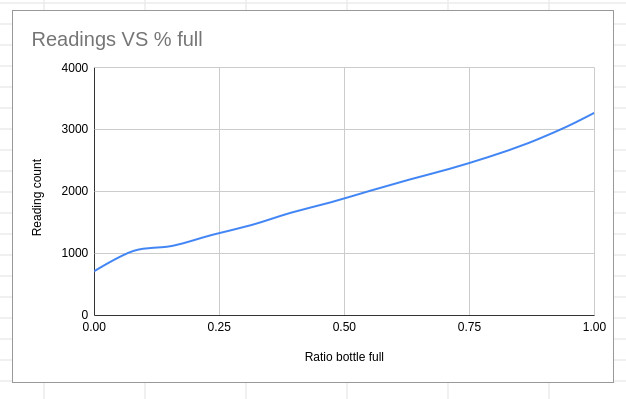
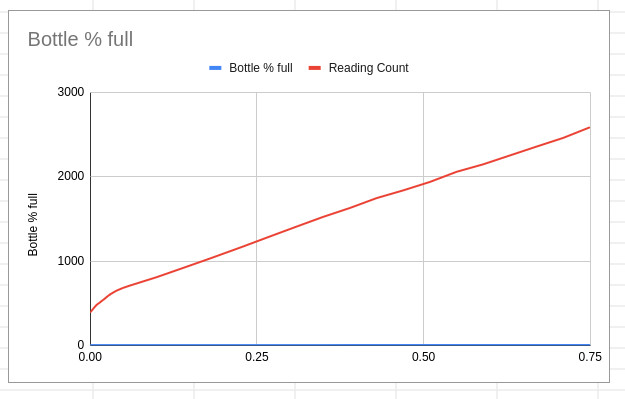
One pin Capactive sensor is now working in Rust

diff --git a/ex-gpio-change-pin-direction-var-cap-read-1-pin/readme.md b/ex-gpio-change-pin-direction-var-cap-read-1-pin/readme.md
@@ -2,15 +2,16 @@
 
 ## ESP32 Embedded Rust: Measuring Capacitance with Discharge Time
 
-This example demonstrates measuring changes in capacitance by recording the time it takes for a variable capacitor to discharge by measuring the time the capacitor takes to 
-drop from VCC (3.3V) to 0.7V through a known resistor. 
+This example demonstrates measuring changes in capacitance by recording the time it takes for a variable capacitor to discharge near VCC (3.3V) to 0.7V through a known resistor.  It does this with only logic level transitions without requiring a ADC
+or analog comparator. 
 
 ### Fluid Level Sensing in Embedded Rust on ESP32 CPU by measuring change in Capacitance
 For testing the electrode will be a two foil strips afixed to 
-the outside of a water bottle.  The Capacitance is varied by filling the bottle with various amounts of water.  One stip oscilates from VCC to 0.7V while the other on the opposite side of bottle is connected to ground.  This forms a capacitor with air as the dielectric when empty and water as the dielectric as water is added.
+the outside of a water bottle.  The Capacitance is varied by filling the bottle with various amounts of water.  One strip oscilates from VCC to 0.7V while the other on the opposite side of bottle is connected to ground.  This forms a capacitor with air as the dielectric when empty and water as the dielectric as water is added. As more
+water is added capacitance of the circuit increases.
 
 ### Human Proximity Sensing. 
-This method can also be used to sense human touch. With a large enough sensor, it can detect changes in human proximity as a person moves closer to or further from the sensor.
+This method can also be used to sense human touch. With a large enough sensor, As shown below it can detect changes in human proximity as a person moves closer to or further from the sensor.   With a larger sensor it could easily detects a human moving closer or away within a 1 meter range.
 
 ### ESP32 Rust Features Demonstrated:
     - Change GPIO Pin Direction
@@ -45,24 +46,19 @@ Many of my designs rely heavily on capacitive sensing. However, not all my prefe
 Tested on esp32-s3-mini-1 on custom RaimAmp.com board on 2024-04-20
 
 ### Results and Notes
-I'm pretty happy with the linearity and response. There are some variations, but these could easily be caused by my imperfect cutting of the foil tape and the use of a measuring cup and syringe to add water.
+The linearity of the response is pretty good even though there are variations from imperfect cutting of the foil tape.
 
 There is a significant jump in readings from an empty bottle to a bottle with some water. This jump needs to be accounted for when using this method to measure tank level.
 
 ![alt text](img/sample-calibration-chart.jpg)
 
-Additionally, the readings accelerate at the end when the bottle tapers. It probably would have been better to stop at 85% full and adjust the total capacity downward.
 
-Even with tanks of variable shapes, interpolation from point to point can be used for accurate estimation.
-
-
-- Aluminum tape used as sensors was cut by hand and has some minor wrinkles, which will cause some variability in readings. 
+- The aluminum tape used as sensors was cut by hand and has some minor wrinkles, which will cause some variability in readings.  I have also used aluminum bar,  stainless rods, aluminum and steel tube.
 
 - There is a large increase from empty to the first water increment. This is great if you want to measure an empty tank, but it makes the first reading appear skewed. 
 
-- After adding water, some inevitably splashes on the sides, causing higher readings that drop until they reach a baseline after the water has a chance to run down and the sides dry a little. I wasn't perfectly consistent when waiting for this to happen, so some variability was introduced. 
 
-### Steps:
+### Algorithm Steps:
 
 1. Drive discharge pin Low and provide enough time for the circuit to fully discharge.  This is critical because any residual charge will affect 
 timing in future steps.
@@ -72,16 +68,21 @@ timing in future steps.
    most consistent results. 
 2. Change the pin's drive mode to high impedance Read status.
 3. Measure the time it takes for a high impedance input pin to discharge
-   from 3.3VV to logic low approx 0.7V
+   from Charged Level (3.3V) to logic low approx 0.7V
 4. Use fast polling to detect when the circuit Pin state changes 
    from high to low. 
+
+NOTE:  By reducing the charge time we can increase number of reads 
+per cycle by allowing capacitor to charge to less than 3.3V before
+starting the discharge cycle.   In general slower CPU should allow
+more charge time while faster CPU can tolerate less.
 
 ### Theory:
 
 Assuming resistance and charge level remain constant, an increase in capacitance should result in a longer time 
 to charge circuit before it reaches the transition voltage. Conversely, a decrease in capacitance should lead to a shorter charge time.   
 
-Time to discharge 4pf capacitor through 5M resistor from 3.3V to 0.7V is 29 micro seconds. This should be easy to sense from a CPU running at 120Mhz with 1% sensivity to change but when using slower CPU cycles such as a 16Mhtz MSPM0 
+Time to discharge 4pf capacitor through 5M resistor from 3.3V to 0.7V is 29 micro seconds. This should be easy to sense from a CPU running at 120Mhz with 1% sensivity to change.  When using slower CPU cycles such as a 16Mhtz MSPM0 
 we would need to increase resistance to provide sufficient CPU cycles to count accurately. 
 - [../discharge-time-to-capacitance.py](discharge-time-to-capacitance.py)
 - [../time-to-discharge-capacitor.py](time-to-discharge-capacitor.py)
@@ -92,6 +93,14 @@ we would need to increase resistance to provide sufficient CPU cycles to count a
    - https://github.com/esp-rs/esp-idf-hal
    - https://docs.esp-rs.org/esp-idf-hal/esp_idf_hal/
    - https://github.com/esp-rs/esp-idf-hal/tree/master/examples
+
+   When compared to the built in CPU capactive touch pins with 
+   vendor supplied libraries this version
+   is somewhat less sensitive at least for the units I have tested.  
+   It also consumes more CPU power since the built in version on 
+   most CPU can have a threashold that when triggered can wake 
+   the CPU from sleep.  This version runs with the CPU fully 
+   active so it consumes more power during that measurement.  
 
 
 # Setup
@@ -190,21 +199,41 @@ I did not have a 8M resistor available but did have a bunch of 1M resistor so so
 ## Picture of Bottle with electrode
 ![alt text](img/var-cap-sensor-for-bottle_20240420_174810579~2.jpg)
 
-## Sample Data with Bare wire no electrode
-![alt text](img/measurement-with-bare-wire-no-electrode.jpg)
-
 ## Sample Data with Electrode on Bottle no water
 ![alt text](img/measurements-with-electrode-on-bottle-no-water.jpg)
 
 ## Sample Data Empty Bottle Human touching electrode sensor
+The 400 series readings are from before I touched the bottle.
+The 1300 series readings are from when I press my thumb on the +sense electrode.
+
 ![alt text](img/measurement-electrode-on-bottle-touch-with-thumb.jpg)
+
+## Sample Data empty Bottle Human touching both Electrodes same hand
+The 400 series of readings are from empty bottle.  Notice how the rose
+to over 14,000 when both electrodes where touched then dropped again
+as soon as the touch was removed.
+
+This reading shows that if you can design touch button where the human
+finger touches both the oscilating electrode and the ground electrode 
+at the same time then you get much strong signal to allow non-ambigous
+readings. 
+![alt text](img/measure-capacitance-with-human-touch-both-electrodes.jpg)
 
 
 ## Sample Data Empty Bottle human proximity holding hand 1" from surface
+The 420 to 430 range readings are after removing my hand.
+The 480 to 490 range readings are when holding my hand 1" from surface of +sense electrode.  These readings show a definite increase in the readings even though I was not touching the electrode. 
+
 ![alt text](img/mesurement-human-hand-1-inch-from-surface.jpg)
 
 
 ## Sample Data from Water Filling a Bottle
+For this test I had to add additional aluminum tape to bottom of bottle about 3/4" wide by 1.5" wide to keep the wires from pulling off.  That created a higher 
+level of reading change per unit of wire because the electrode was larger. The 
+average was 26 units of reading change per 1% of water level change.  At the bottom 
+it was closer to 64 units per %.   This shows how minor changes in electrode shape
+can modify output.   The first reading when adding only 0.3 ounces to the bottom had
+an outsized effect of 92 units. This is is the effect from moving from air filled to at least some fluid and has to be compensated for in software.
 ![alt text](img/sample-calibration-readings.jpg)
 
 
@@ -215,13 +244,6 @@ this increases capacitance.
 - Need to re-run calibration readings with 1/2 once of water as starting point 
   to better isolate early bump.
 
-The code `let mut csense_in = csenseOut.into_input()?;` converted from output pin to 
-input pin and did seem to allow us to read state of the pin but it was not reliable 
-due to what appeared to be glitchy timing. 
-
-The code `csense_drv.set_low()?;` converted us from input pin back into 
-an output pin but conversion seems glitchy with weird timing which
-is weird because it seems to work ok in arduino.
         
 # About Us 
 If you find value in these examples please add a link to our main 
